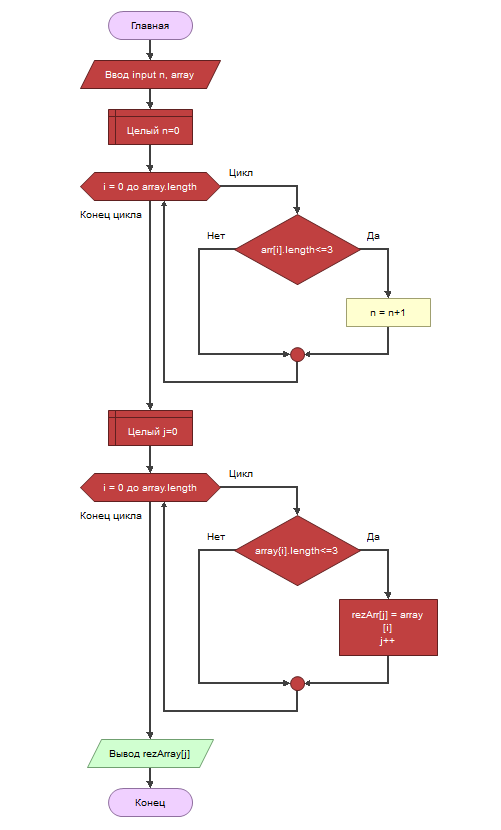
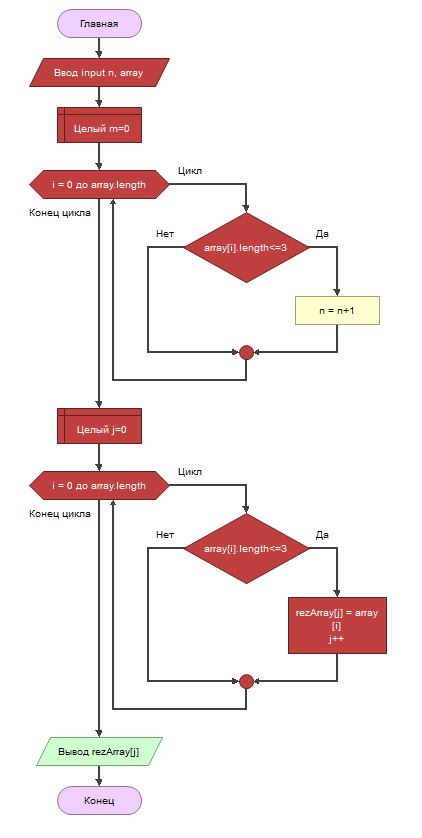
Corrected the Readme.md file, Block diagram correction

Changed region(s): [[0.0616, 0.0, 0.9242, 0.994]]

diff --git a/FimalTask/Program.cs b/FimalTask/Program.cs
@@ -8,13 +8,13 @@
 }
 string[] NewFillArray(string[] arr)
 {
-    int n = 0;
+    int m = 0;
     for (int i = 0; i < arr.Length; i++)
     {
         if (arr[i].Length <= 3)
-         n++;
+         m++;
     }
-  string [] rez = new string [n];
+  string [] rez = new string [m];
   int j = 0;
   for (int i = 0;i<arr.Length;i++)
   {

diff --git a/readme.md b/readme.md
@@ -7,6 +7,6 @@
 ## Описание работы програмы.
 - Сначала надо ввести размерность массива (n).
 - Затем вводятся сами элементы исходного массива. Ввод элементов выполняется отдельной процедурой (FillArray).
-- В функции NewFillArray в первомцикле происходит подсчёт количества элементов, длина строк которых меньше, либо равна 3 символам.
+- В функции NewFillArray в первомцикле происходит подсчёт количества элементов (m), длина строк которых меньше, либо равна 3 символам.
 - Во втором цикле происхдит формирование нового массива строк, длина которых не превышает 3 символа.
 - В процедуре PrintArray идет вывод новго массива на консоль.
